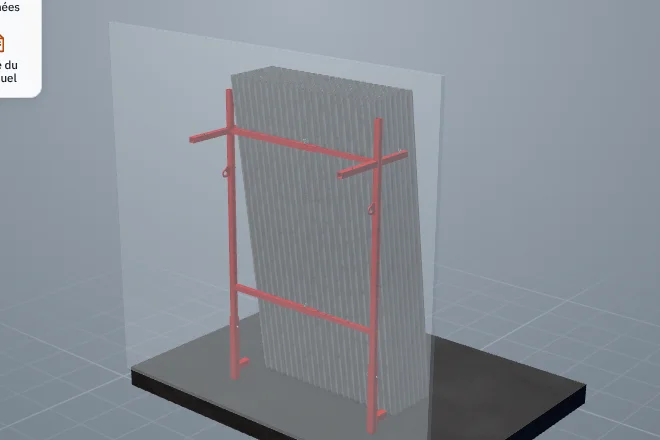
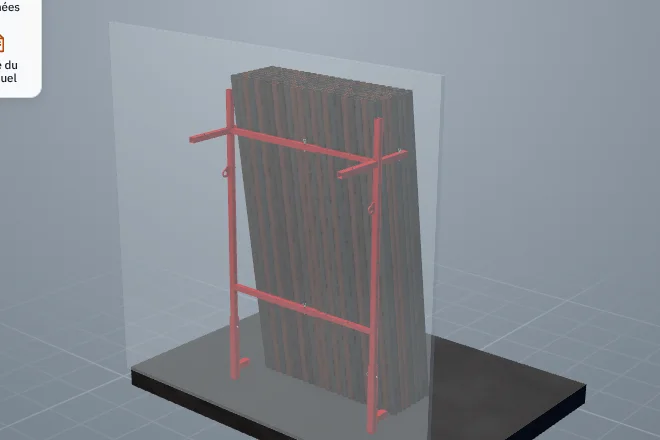
Rack à rods : tiges NQ usagées (acier terni et rouille, teintes variées d'une tige à l'autre)
Claude-Session: https://claude.ai/code/session_015N4WstbNt4REAewMCnajzJ

Changed region(s): [[0.3333, 0.1477, 0.6667, 0.9455]]

diff --git a/src/models/rack-tiges-dd/index.js b/src/models/rack-tiges-dd/index.js
@@ -147,6 +147,13 @@ function P01(api) {
   return { view: { dir: [0.9, 0.45, 1.25] } };
 }
 
+// Tiges usagées : teinte choisie d'après la place de la tige (toujours la même pour une tige).
+const ROD_TONES = ['rodWorn', 'rodRust', 'rodDull', 'rodWorn', 'rodRustDark', 'rodRust', 'rodDull'];
+function rodTone(k, c) {
+  const h = Math.sin(k * 127.1 + c * 311.7) * 43758.5453;
+  return ROD_TONES[Math.floor((h - Math.floor(h)) * ROD_TONES.length)];
+}
+
 /** Support chargé de 184 tiges NQ, appuyé au mur (figures 2 et 3). */
 function P02(api) {
   const S = api.S;
@@ -161,7 +168,7 @@ function P02(api) {
     const s = (y0 - r * cos) / sin; // du point d'appui au pied, le long de la tige
     const mid = NQ.len / 2 - s;
     for (let c = 0; c < NQ.cols; c++) {
-      const rod = S.shell(r, NQ.id / 2, NQ.len, 'steel', { seg: 14 });
+      const rod = S.shell(r, NQ.id / 2, NQ.len, rodTone(k, c), { seg: 14 });
       rod.rotation.x = -tilt;
       S.at(rod, [(c - (NQ.cols - 1) / 2) * NQ.od, y0 + mid * sin, z0 - mid * cos]);
       api.part('2', rod, [0, 0, 1.1 + k * 0.05], { noLabel: k + c > 0 });

diff --git a/src/viewer/materials.js b/src/viewer/materials.js
@@ -92,6 +92,11 @@ const defs = {
   rockFloor: { color: 0x3d3f42, metalness: 0, roughness: 0.95, fin: 'rock' },
   fluoRed: { color: 0xff3020, emissive: 0x5a0800, emissiveIntensity: 1, roughness: 0.6 },
   fluoOrange: { color: 0xff7a10, emissive: 0x4a1800, emissiveIntensity: 1, roughness: 0.55 },
+  // Tiges de forage usagées : acier terni, brun de rouille plus ou moins marqué.
+  rodWorn: { color: 0x5a4f47, metalness: 0.55, roughness: 0.7, fin: 'cast' },
+  rodRust: { color: 0x6e4630, metalness: 0.35, roughness: 0.82, fin: 'cast' },
+  rodRustDark: { color: 0x4a3226, metalness: 0.4, roughness: 0.85, fin: 'cast' },
+  rodDull: { color: 0x4b4a48, metalness: 0.6, roughness: 0.66, fin: 'cast' },
   blackCast: { color: 0x2a2c30, metalness: 0.1, roughness: 0.55, clearcoat: 0.3, clearcoatRoughness: 0.35, fin: 'paintDark' },};
 
 // ------------------------------------------------------- relief de surface
